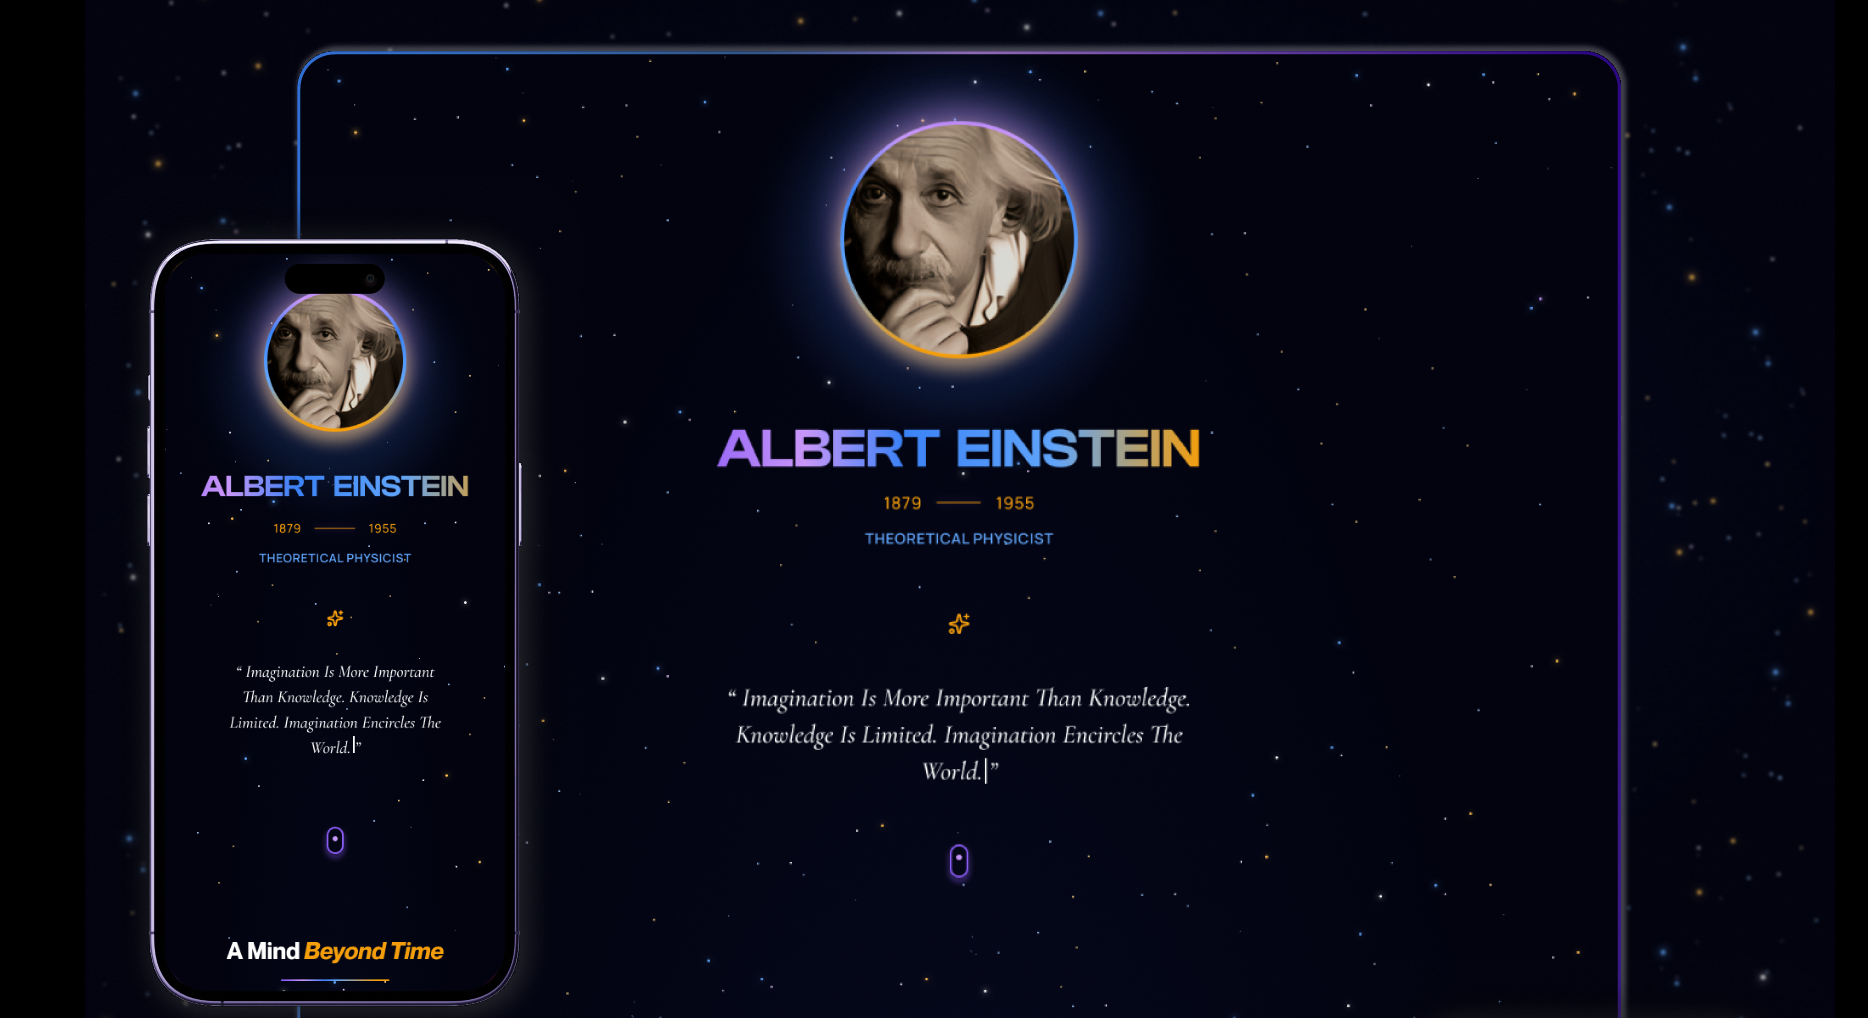
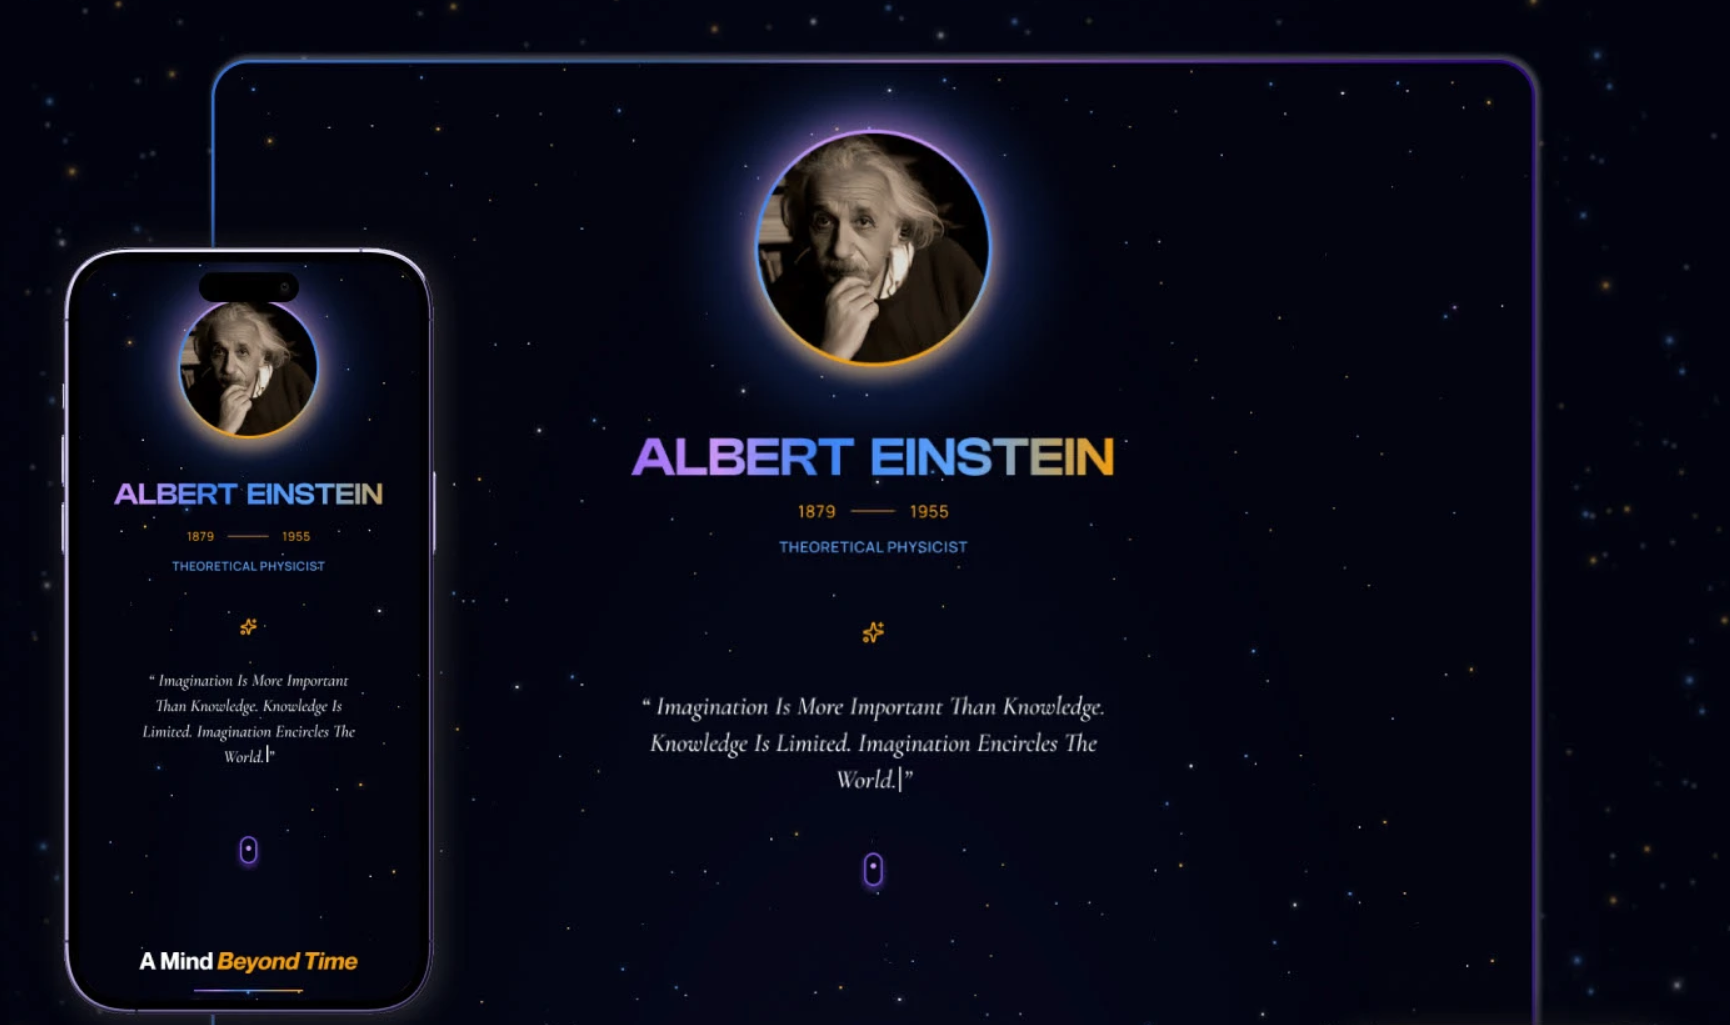
docs: change Ui preview screenshoots (#10)
* docs: change Ui preview screenshoots

* chore: add a line code to triger CI

* chore: remove unnecessary comment to trigger CI

* ci: retrigger workflow

* chore: clean up comments in README.md

diff --git a/README.md b/README.md
@@ -1,4 +1,5 @@
-<!-- [] - Add Deployment Instructions (add to commands section)
+<!--
+    [] - Add Deployment Instructions (add to commands section)
     [] - Add Testing Instructions (add to commands section)
     [] - Add live demo link
     [] - Add CD pipeline
@@ -8,7 +9,8 @@
     [] - Add analytics tracking (Google Analytics, etc.)
     [] - Add SEO meta tags (title, description, keywords) in HTML
     [] - Clean up code following SOLID principles
--->
+  !-->
+
   <div align="center" id="top">
     <img src="./images/Einstein.png" width="350" height="160" alt="einstein-image">
 
